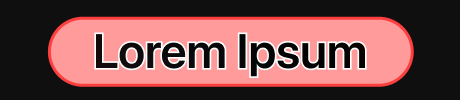
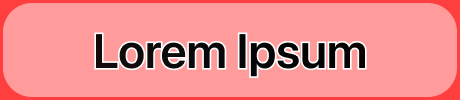
Added sidebar + animations

diff --git a/main.py b/main.py
@@ -83,7 +83,6 @@ class Window(Tk):
         self.bind("<Escape>", lambda e: self.destroy())
         self.button_dicts = {}
         self.labels_dicts = {}
-        self.widgetslist = []
 
         self.parentFrame = Canvas(self, bg=LIGHTYELLOW, width=1, height=1, name="parentFrame")
         self.parentFrame.grid(row=0, column=0, rowspan=1, columnspan=1, sticky=NSEW)
@@ -96,35 +95,6 @@ class Window(Tk):
         ]
         self.settingsUnpacker(self.labelSettingsParentFrame, "label")
 
-        def parseDicts(dictionary):
-            """
-            Parses a dictionary of buttons and labels and formats them into human readable text
-            {'Student Button': {'columnspan': 30, 'rowspan': 30, 'row': 16, 'column': 54, 'image': <PIL.ImageTk.PhotoImage object at 0x00000269EDEE0950>}, 'Teacher Button': {'columnspan': 30, 'rowspan': 30, 'row': 16, 'column': 12, 'image': <PIL.ImageTk.PhotoImage object at 0x00000269EDEE0F90>}, 'Back Button': {'columnspan': 12, 'rowspan': 4, 'row': 2, 'column': 0, 'image': <PIL.ImageTk.PhotoImage object at 0x00000269EDEE1410>}, 'Skip Button': {'columnspan': 12, 'rowspan': 4, 'row': 47, 'column': 84, 'image': <PIL.ImageTk.PhotoImage object at 0x00000269EDEE17D0>}, 'Captcha Button': {'columnspan': 18, 'rowspan': 5, 'row': 26, 'column': 63, 'image': <PIL.ImageTk.PhotoImage object at 0x00000269EDEE18D0>}}
-            Breaks up each element in the dictionary example above into
-            <Button> -> <Button Name> -> <Button Property> -> <Button Property Value>... continuing in a single line
-
-            """
-            for key, value in dictionary.items():
-                print(key, value)
-                for key2, value2 in value.items():
-                    print(key2, value2)
-
-        def parseObjectsFromFrame(frame: Frame):
-            for widgetname, widget in frame.children.items():
-                if isinstance(widget, Button) or (isinstance(widget, Label)and not widgetname.startswith("!la")):
-                    widgethost = str(widget).split(".")[-2]
-                    widget = str(widget).split(".")[-1]
-                    if isinstance(widget, Label):
-                        print(f"Label: {widget} & Label holder: {widgethost}")
-                    else:
-                        print(f"Button: {widget} & and Button holder: {widgethost}")
-        def destroyObjectsFromFrame(frame: Frame):
-            for widgetname, widget in self.children.items():
-                if not (widgetname.startswith("!la")):
-                    # print(frame, widgetname, widget)
-                    self.widgetslist.append(widget)
-            for widget in self.widgetslist:
-                print("asdf", widget)
         def returnObjectsToFrame(frame: Frame):
             widgetlist = []
             for widgetname, widget in frame.children.items():
@@ -133,7 +103,6 @@ class Window(Tk):
                     widgetlist.append(widget)
             for widgetname, widget in widgetlist:
                 print(f"this is widget in{frame}", widgetname, widget)
-
 
         self.postSelectFrame = Frame(self.parentFrame, bg=LIGHTYELLOW, width=1, height=1, name="postSelectFrame")
         self.postSelectFrame.grid(row=0, column=0, rowspan=54, columnspan=96, sticky=NSEW)
@@ -175,30 +144,52 @@ class Window(Tk):
             (r"Assets\LandingPage\Teacher Button.png", 240, 320, "Teacher Button",
             self.parentFrame, lambda: makeBgImageGrid(teacher=True)) 
         ]
-        for i in self.buttonSettingsForParentFrame:
-            button_params = {
-                "imagepath": i[0],
-                "x": i[1],
-                "y": i[2],
-                "classname": i[3],
-                "root": i[4],
-                "buttonFunction": i[5],
-            }
-            self.buttonCreator(**button_params )
-        self.settingsForPostSelectFrame = [
+        self.settingsUnpacker(self.buttonSettingsForParentFrame, "button")
+        self.btnSettingsPostSelectFrame = [
         (r"Assets\Login Page with Captcha\BackButtonComponent.png", 0, 40, "Back Button", 
         self.postSelectFrame,
         lambda: self.postSelectFrame.grid_remove()),
         (r"Assets\Login Page with Captcha\Skip Button.png", 1680, 940, "Skip Button", 
         self.postSelectFrame,
-        lambda: [self.show_frame(Dashboard), self.loadPageAssetsStudents(Dashboard)]), 
+        lambda: [self.show_frame(Dashboard), self.loadPageAssets(Dashboard, "student")]), 
         (r"Assets\Login Page with Captcha\CaptchaButton.png", 1260, 520, "Captcha Button", 
         self.postSelectFrame,
         lambda: [self.postSelectFrame.grid_remove()]), 
         ]
+        self.settingsUnpacker(self.btnSettingsPostSelectFrame, "button")
+        
+        self.widgetsdict = {} 
+        def parseDicts(dictionary):
+            """
+            Parses a dictionary of buttons and labels and formats them into human readable text
+            {'Student Button': {'columnspan': 30, 'rowspan': 30, 'row': 16, 'column': 54, 'image': <PIL.ImageTk.PhotoImage object at 0x00000269EDEE0950>}, 'Teacher Button': {'columnspan': 30, 'rowspan': 30, 'row': 16, 'column': 12, 'image': <PIL.ImageTk.PhotoImage object at 0x00000269EDEE0F90>}, 'Back Button': {'columnspan': 12, 'rowspan': 4, 'row': 2, 'column': 0, 'image': <PIL.ImageTk.PhotoImage object at 0x00000269EDEE1410>}, 'Skip Button': {'columnspan': 12, 'rowspan': 4, 'row': 47, 'column': 84, 'image': <PIL.ImageTk.PhotoImage object at 0x00000269EDEE17D0>}, 'Captcha Button': {'columnspan': 18, 'rowspan': 5, 'row': 26, 'column': 63, 'image': <PIL.ImageTk.PhotoImage object at 0x00000269EDEE18D0>}}
+            Breaks up each element in the dictionary example above into
+            <Button> -> <Button Name> -> <Button Property> -> <Button Property Value>... continuing in a single line
 
-        self.opensDevWindow(parseObjectsFromFrame, destroyObjectsFromFrame, returnObjectsToFrame)
-        self.settingsUnpacker(self.settingsForPostSelectFrame, "button")
+            """
+            for key, value in dictionary.items():
+                print(key, value)
+                for key2, value2 in value.items():
+                    print(key2, value2)
+
+        def parseObjectsFromFrame(frame: Frame):
+            for widgetname, widget in frame.children.items():
+                if isinstance(widget, (Label, Frame, Button)) and not widgetname.startswith("!la"):
+                    # widgethost = str(widget).split(".")[-2]
+                    # widget = str(widget).split(".")[-1]
+                    # if isinstance(widget, Label):
+                    #     print(f"Label: {widget} & Label holder: {widgethost}")
+                    # elif isinstance(widget, Frame):
+                    #     print(f"Frame: {widget} & Frame holder: {widgethost}")
+                    # elif isinstance(widget, Button):
+                    #     print(f"Button: {widget} & Button holder: {widgethost}")
+                    self.widgetsdict[widgetname] = widget
+        def checkWidgetsInWindow(widget):
+            # print(self.widgetsdict)
+            print(widget)
+            print(self.widgetsdict.get('topbar').configure(relief="sunken"))
+
+        # self.opensDevWindow(parseObjectsFromFrame, checkWidgetsInWindow, returnObjectsToFrame)
         
         self.frames = {}
         for F in (
@@ -211,7 +202,7 @@ class Window(Tk):
             frame.grid_propagate(False)
             frame.grid_remove()
 
-    def opensDevWindow(self, parseObjectsFromFrame, destroyObjectsFromFrame, returnObjectsToFrame):
+    def opensDevWindow(self, parseObjectsFromFrame, checkWidgetsInWindow, returnObjectsToFrame):
         self.developerkittoplevel = Toplevel(
             self,
             bg=LIGHTYELLOW,
@@ -224,14 +215,14 @@ class Window(Tk):
         self.developerkittoplevel.attributes("-topmost", True)
         self.settingsUnpacker([(r"Assets\DeveloperKit\BG.png", 0, 0, "DevKitBG", self.developerkittoplevel)], "label")
         widgetssettingsfordevkit = [
-        (r"Assets\DeveloperKit\XD.png", 520, 0, "XD Button", self.developerkittoplevel, 
-        lambda: parseObjectsFromFrame(self.get_page(Dashboard))),
+        (r"Assets\DeveloperKit\CollectAllWidgets.png", 520, 0, "XD Button", self.developerkittoplevel, 
+        lambda: parseObjectsFromFrame(self.parentFrame)),
         (r"Assets\DeveloperKit\xd1.png", 680, 0, "XD1 Button", self.developerkittoplevel, 
-        lambda: destroyObjectsFromFrame(self.get_page(Dashboard))),
+        lambda: checkWidgetsInWindow('learninghubchip')),
+        (r"Assets\DeveloperKit\CollectAllWidgets.png", 520, 160, "XD3 Button", self.developerkittoplevel, 
+        lambda: parseObjectsFromFrame(self.get_page(Dashboard))),
         (r"Assets\DeveloperKit\xd1.png", 680, 160, "XD2 Button", self.developerkittoplevel, 
-        lambda: returnObjectsToFrame(self.get_page(Dashboard))),
-        (r"Assets\DeveloperKit\XD.png", 520, 160, "XD3 Button", self.developerkittoplevel, 
-        lambda: self.destroyLabelsFromFrame(self.parentFrame)),
+        lambda: checkWidgetsInWindow('learninghubchip')),
         (r"Assets\DeveloperKit\WidgetWorkings.png", 520, 320, "XD4 Button", self.developerkittoplevel, 
         lambda: [self.destroyLabelFromFrame(self.postSelectFrame), print("destroyed")],),
         (r"Assets\DeveloperKit\ToggleZoom.png", 680, 320, "Toggle Zoom Button", self.developerkittoplevel, 
@@ -284,19 +275,12 @@ class Window(Tk):
     def get_page(self, classname):
         return self.frames[classname]
 
-    def loadPageAssetsStudents(self, page):
+    def loadPageAssets(self, page, role):
         """
         This function loads the assets for the page. Each page has its own assets only loaded during time of use.
         """
         reference = self.get_page(page)
-        reference.loadAssetsStudents()
-
-    def loadPageAssetsTeachers(self, page):
-        """
-        This function loads the assets for the page. Each page has its own assets only loaded during time of use.
-        """
-        reference = self.get_page(page)
-        reference.loadAssetsTeachers()
+        reference.loadAssets(role)
 
     def deletethewindowbar(self, windowInstance):
         hwnd: int = get_handle(windowInstance)
@@ -320,7 +304,7 @@ class Window(Tk):
         classname=None,
         buttonFunction=None,
         root=None,
-        relief=FLAT,
+        relief=SUNKEN,
         overrideRelief=FLAT,
         text=None,
         font=("Avenir Next Bold", 16),
@@ -388,12 +372,11 @@ class Window(Tk):
         ):
         """
         This function takes in the image path, x and y coordinates and the classname, which is necessary because the garbage collector
-        will destroy the dictionary if not referenced to something. Thus, we pass it with an identifier string variable called classname.\n\n
+        will destroy the image if not referenced to something. Thus, we pass it with an identifier string variable called classname.\n\n
         For example, :\n
         self.buttonCreator(r"Assets\Student Button.png", 240, 320, classname="StudentButton")
         will first return a dictionary with the following format:\n
         {'StudentButton': {'columnspan': 30, 'rowspan': 30, 'row': 16, 'column': 12, 'image': <PIL.ImageTk.PhotoImage object at 0x00000246A6976710>}}
-        Then, we pass the classname to the inner dictionary, which gives us a label or button with the image we want.
         """
         label_dict = elementcreator.createDictOfSettings(
             self, imagepath, x, y, classname
@@ -556,6 +539,73 @@ class Window(Tk):
         colorkey = win32api.RGB(red, green, blue)
         return colorkey
   
+
+class SlidePanel(Frame):
+    def __init__(self, parent=None, controller=None, startcolumn=0, startrow=0, endrow=0, endcolumn=0, startcolumnspan=0, endcolumnspan=0, rowspan=0, columnspan=0, relief=FLAT, width=1, height=1, bg=TRANSPARENTGREEN):
+        super().__init__(parent, width=1, height=1, bg=TRANSPARENTGREEN)
+        self.controller = controller
+        gridGenerator(self, 1, 1, TRANSPARENTGREEN)
+        self.grid(row=startrow, column=startcolumn, rowspan=rowspan, columnspan=startcolumnspan, sticky=NSEW)
+        self.grid_propagate(False)
+        # self.startposition = startposition
+        # self.endposition = endposition
+        self.startcolumn = startcolumn
+        self.endcolumn = endcolumn
+        self.startcolumnspan = startcolumnspan
+        self.endcolumnspan = endcolumnspan
+        self.distance = endcolumn - startcolumn
+        #animation logic
+        self.pos = startcolumn
+        self.at_start_pos = True
+        hwnd = self.winfo_id() #TRANSPARENTGREEN IS the default colorkey
+        transparentcolor = self.controller.hex_to_rgb(TRANSPARENTGREEN)
+        wnd_exstyle = win32gui.GetWindowLong(hwnd, win32con.GWL_EXSTYLE)
+        new_exstyle = wnd_exstyle | win32con.WS_EX_LAYERED
+        win32gui.SetWindowLong(hwnd,win32con.GWL_EXSTYLE,new_exstyle)
+        win32gui.SetLayeredWindowAttributes(hwnd,transparentcolor,255,win32con.LWA_COLORKEY)
+        self.controller.sidebarimage = ImageTk.PhotoImage(Image.open(r"Assets\Dashboard\sidebar320x940.png"))
+        self.sidebarlabel = Label(self, image=self.controller.sidebarimage, bg=TRANSPARENTGREEN,width=1,height=1, name="sidebar")
+        self.sidebarlabel.grid(row=0, column=0, rowspan=rowspan, columnspan=16, sticky=NSEW)
+        self.controller.sidebarpfpimage = ImageTk.PhotoImage(Image.open(r"Assets\Dashboard\SidebarPfp200x200.png"))
+        self.sidebarpfp = Button(self, image=self.controller.sidebarpfpimage, bg=LIGHTYELLOW,width=200,height=200, name="sidebarpfp", command=lambda:print("pfp clicked"))
+        self.sidebarpfp.place(x=60, y=40)
+        
+        # self.controller.buttonCreator(r"Assets\Dashboard\SidebarPfp200x200.png", 60, 40, "sidebarpfp", lambda:print("pfp clicked"), self)
+    # def parseObjectsFromFrame(self, frame):
+    #     for widgetname, widget in frame.children.items():
+    #         if widgetname == "sidebar":
+    #             print(widgetname, widget)
+    #             print(widget.grid_info())
+    #layout 
+    def animate(self):
+        if self.at_start_pos:
+            self.animate_forward()
+        else:
+            self.animate_backward()
+    
+    def animate_forward(self):
+        self.tkraise()
+        self.sidebarlabel.tk.call('raise', self.sidebarlabel._w)
+        self.sidebarpfp.tk.call('raise', self.sidebarpfp._w)
+        # self.parseObjectsFromFrame(self)
+        if self.startcolumnspan < self.endcolumnspan+1:
+            self.grid(columnspan=self.startcolumnspan)
+            # self.sidebarlabel.grid(columnspan=self.startcolumnspan)
+            self.startcolumnspan += 1
+            self.after(9, self.animate_forward)
+        else:
+            self.at_start_pos = False
+
+    def animate_backward(self):
+        if self.startcolumnspan > 1:
+            self.grid(columnspan=self.startcolumnspan)
+            # self.sidebarlabel.grid(columnspan=self.startcolumnspan)
+            self.startcolumnspan -= 1
+            self.after(15, self.animate_backward)
+        else:
+            self.at_start_pos = True
+            self.lower()
+
 class Dashboard(Frame):
     def __init__(self, parent, controller):
         Frame.__init__(self, parent, width=1, height=1, bg=WHITE)
@@ -564,13 +614,13 @@ class Dashboard(Frame):
         self.parent = parent
         self.framereference = self
         gridGenerator(self, 96, 54, LIGHTYELLOW)
-
+        self.animatedpanel = SlidePanel(self, self.controller ,startcolumn=0, startrow=4, endrow=3, endcolumn=15, rowspan=46, startcolumnspan=1, endcolumnspan=16, relief=FLAT, width=1, height=1, bg=TRANSPARENTGREEN)
         self.labelImg_settings = [
         (r"Assets\Dashboard\StudentDashboard.png", 0, 80, "StudentDashboardLabel", self.framereference),
         (r"Assets\Dashboard\Top Bar.png", 0, 0, "TopBar", self.framereference)
         ]
         self.buttonImg_settings = [
-        (r"Assets\Dashboard\HamburgerMenuTopBar.png", 0, 0, "HamburgerMenu", self.framereference, lambda: print("hello-1")),
+        (r"Assets\Dashboard\HamburgerMenuTopBar.png", 0, 0, "HamburgerMenu", self.framereference, lambda: self.animatedpanel.animate()),
         (r"Assets\Dashboard\searchbar.png", 100, 0, "SearchBar", self.framereference, lambda : self.searchBarLogic()),
         (r"Assets\Dashboard\BellTopBar.png", 1100, 20, "BellTopBar", self.framereference, lambda: print("hello-3")),
         (r"Assets\Dashboard\RibbonTopBar.png", 1160, 20, "RibbonTopBar", self.framereference, lambda: print("hello-4")),
@@ -582,7 +632,7 @@ class Dashboard(Frame):
         (r"Assets\Dashboard\06MyDiscussionsChip.png", 720, 1020, "MyDiscussionsChip", self.framereference, lambda: print("hello-10")),
         (r"Assets\Dashboard\07MyFavoritesChip.png", 860, 1020, "MyFavoritesChip", self.framereference, lambda: print("hello-11")),
         (r"Assets\Dashboard\08MyAppointmentsChip.png", 1000, 1020, "MyAppointmentsChip", self.framereference, lambda: print("hello-12")),
-        (r"Assets\Dashboard\ChatbotButton.png", 1660, 820, "ChatbotButton", self.framereference, lambda: print("hello-13")),
+        (r"Assets\Dashboard\ChatbotButton.png", 1660, 780, "ChatbotButton", self.framereference, lambda: print("hello-13")),
         ]
 
     #TODO: Cleanup this function call chaining using self.controller.settingsUnpacker 
@@ -596,21 +646,34 @@ class Dashboard(Frame):
         self.controller.settingsUnpacker(label_settings, "label")
     def loadAllAssets(self, button_settings, label_settings):
         self.generateElements(button_settings, label_settings)
-        self.controller.canvasCreator(40, 220, 800, 600, root=self, classname="StudentDashboardCanvas1", bgcolor=WHITE, isTransparent=True,
+        self.controller.canvasCreator(40, 220, 800, 600, root=self, classname="StudentDashboardCanvas1", bgcolor=WHITE, isTransparent=True, transparentcolor="#FF3F3E",
             imgSettings=[
-                (r"Assets\Dashboard\bigangry.png", 80, 260, "bigangry", lambda: self.grid_remove()),
+                (r"Assets\Dashboard\bigangry.png", 80, 240, "bigangry", lambda: self.grid_remove()),
                 (r"Assets\Dashboard\transparencytest28040.png", 280, 240, "nametest", lambda: self.grid_remove()),
                 # (r"Assets\Dashboard\VALORANT.png", 1360, 240, "VALORANTCAT"),
-            ],
-        )
-    def loadAssetsStudents(self):
-        self.controller.labelCreator(
-            r"Assets\Dashboard\StudentDashboard.png",
-            0,
-            80,
-            classname="StudentDashboardLabel",
-            root=self,
-        )
+            ])
+        self.controller.canvasCreator(860, 220, 660, 600, root=self, classname="StudentDashboardCanvas2", bgcolor=WHITE, isTransparent=True, transparentcolor="#FFBC5A",
+            imgSettings=[
+                (r"Assets\Dashboard\Frame2.png", 860, 220, "Frame2", lambda: [self.grid_remove(), ]),
+
+            ])
+    def loadAssets(self, role):
+        if role == "student":
+            self.controller.labelCreator(
+                r"Assets\Dashboard\StudentDashboard.png",
+                0,
+                80,
+                classname="StudentDashboardLabel",
+                root=self,
+            )
+        elif role == "teacher":
+            self.controller.labelCreator(
+                r"Assets\Dashboard\TeacherDashboard.png",
+                0,
+                80,
+                classname="TeacherDashboardLabel",
+                root=self,
+            )
         self.loadAllAssets(self.buttonImg_settings, self.labelImg_settings)
     def searchBarLogic(self):
         self.controller.entryCreator(160, 0, 580, 80, self, "SearchBarResults")
@@ -659,8 +722,8 @@ class Dashboard(Frame):
                 # self.controller.labelCreator(
                 #     r"Assets\Dashboard\SearchResultsBg.png", 0, 120, "SearchResults3", widget, text=f"Search Results 3 for {query}", font=("Avenir Next", 20), wraplength=1000
                 # )
-                self.controller.labelCreator(
-                    r"Assets\Dashboard\SearchResultsBg.png", 0, 180, "SearchResults4", widget, text=f"Search Results 4 for {query}", font=("Avenir Next", 20), wraplength=600
+                self.controller.buttonCreator(
+                    r"Assets\Dashboard\SearchResultsBg.png", 0, 180, "SearchResults4", root=widget, text=f"Press Tab to Exit or Click Me", font=("Avenir Next", 20), wraplength=600
                 )
 
 def runGui():
